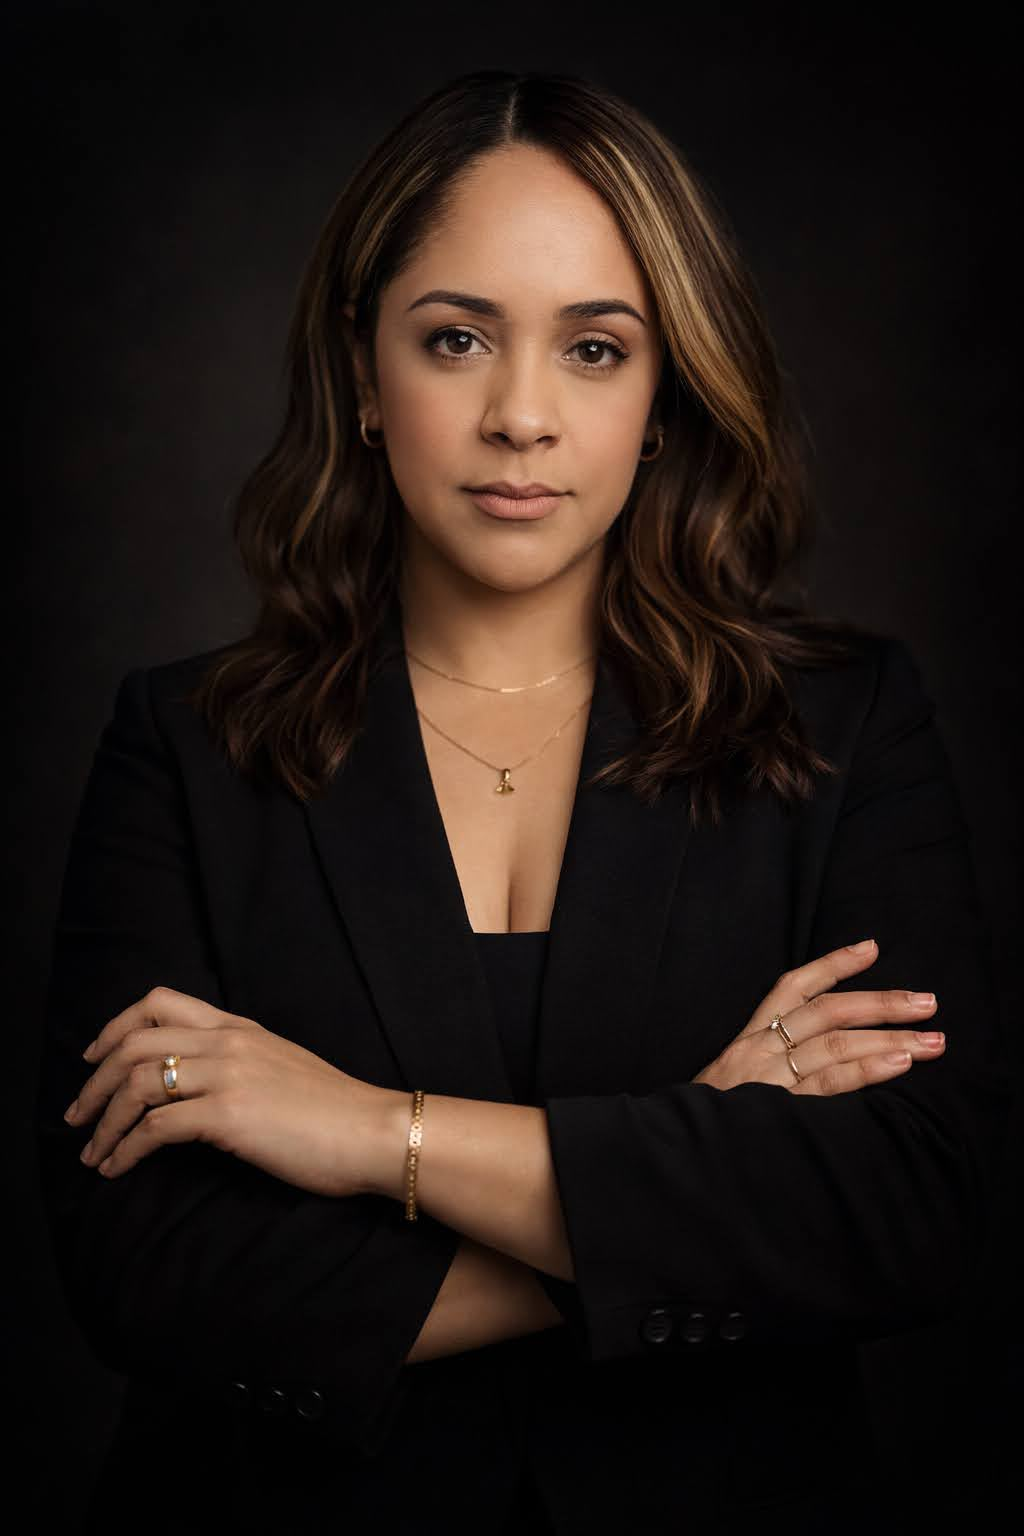
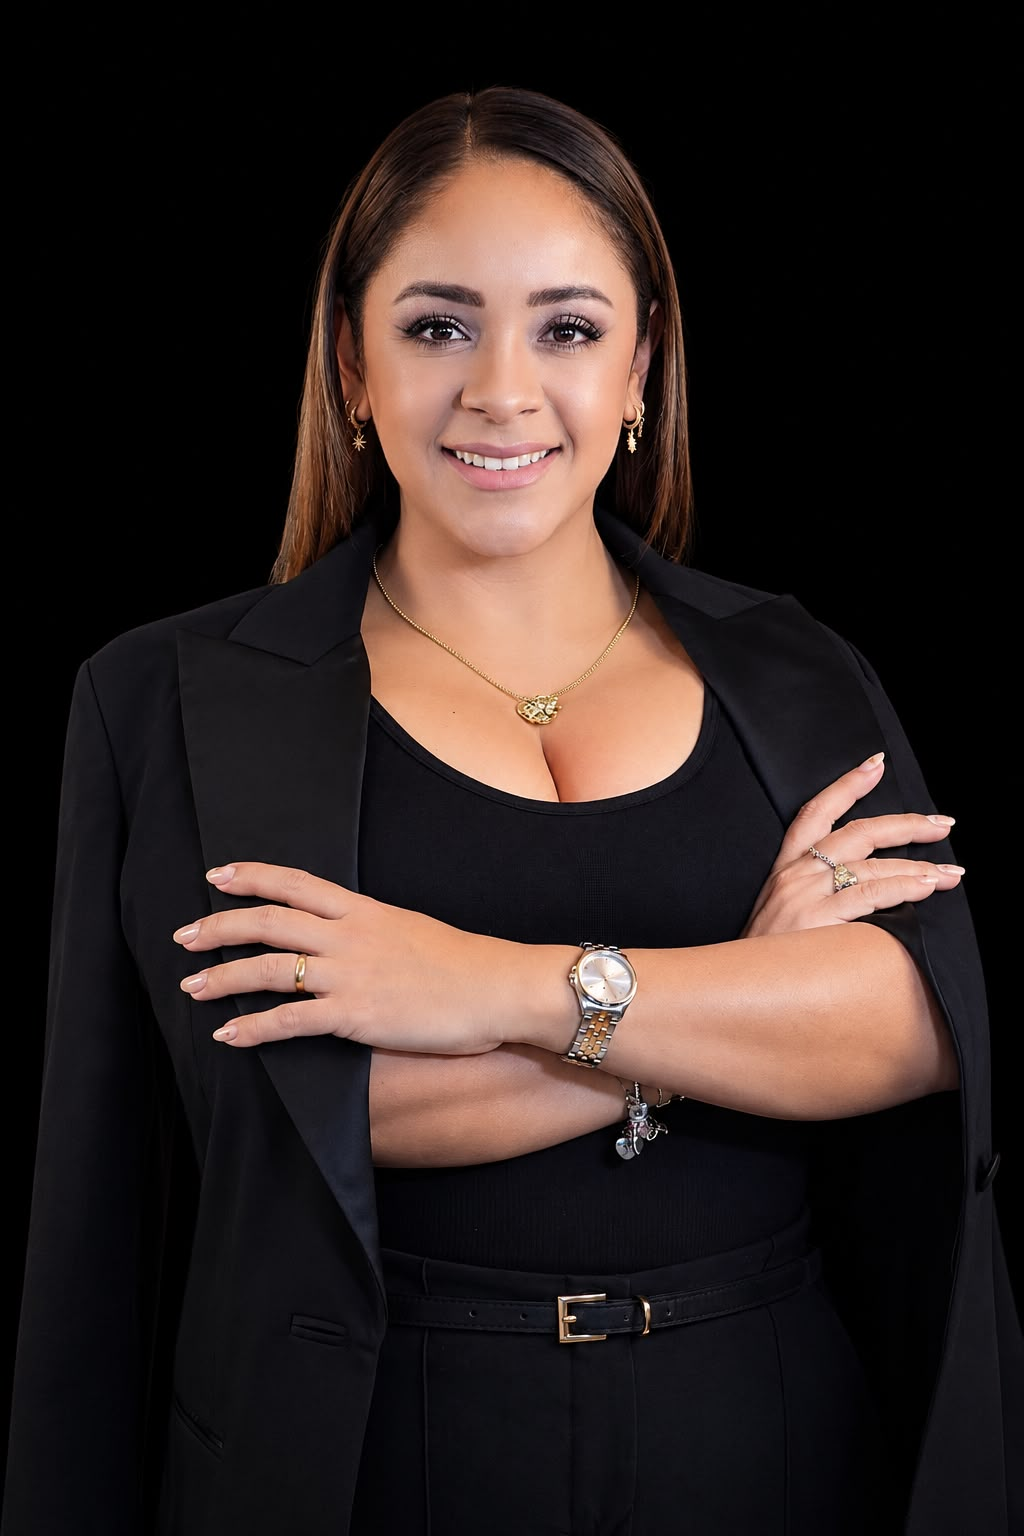
Update homepage portrait and hero alignment

diff --git a/index.html b/index.html
@@ -17,7 +17,7 @@
     rel="stylesheet"
   />
 
-  <link rel="stylesheet" href="styles.css?v=20261123-1" />
+  <link rel="stylesheet" href="styles.css?v=20261123-2" />
 </head>
 <body class="home-page">
   <!-- ============================================================= -->
@@ -68,7 +68,7 @@
         </div>
       </div>
       <figure class="editorial-hero__photo">
-        <img src="images/ale-profile.jpg" alt="Retrato de Alejandra Mendoza, fundadora de BYALEMDZ" loading="eager" decoding="async" />
+        <img src="images/ale-profile.jpg?v=20261123-2" alt="Retrato de Alejandra Mendoza, fundadora de BYALEMDZ" loading="eager" decoding="async" />
       </figure>
     </section>
 

diff --git a/styles.css b/styles.css
@@ -1383,7 +1383,7 @@ img {
 }
 
 .editorial-hero__content {
-  padding: clamp(64px, 9vw, 142px) clamp(34px, 7vw, 118px);
+  padding: clamp(56px, 5vw, 84px) clamp(34px, 7vw, 118px) clamp(132px, 10vw, 190px);
   display: flex;
   flex-direction: column;
   justify-content: center;
